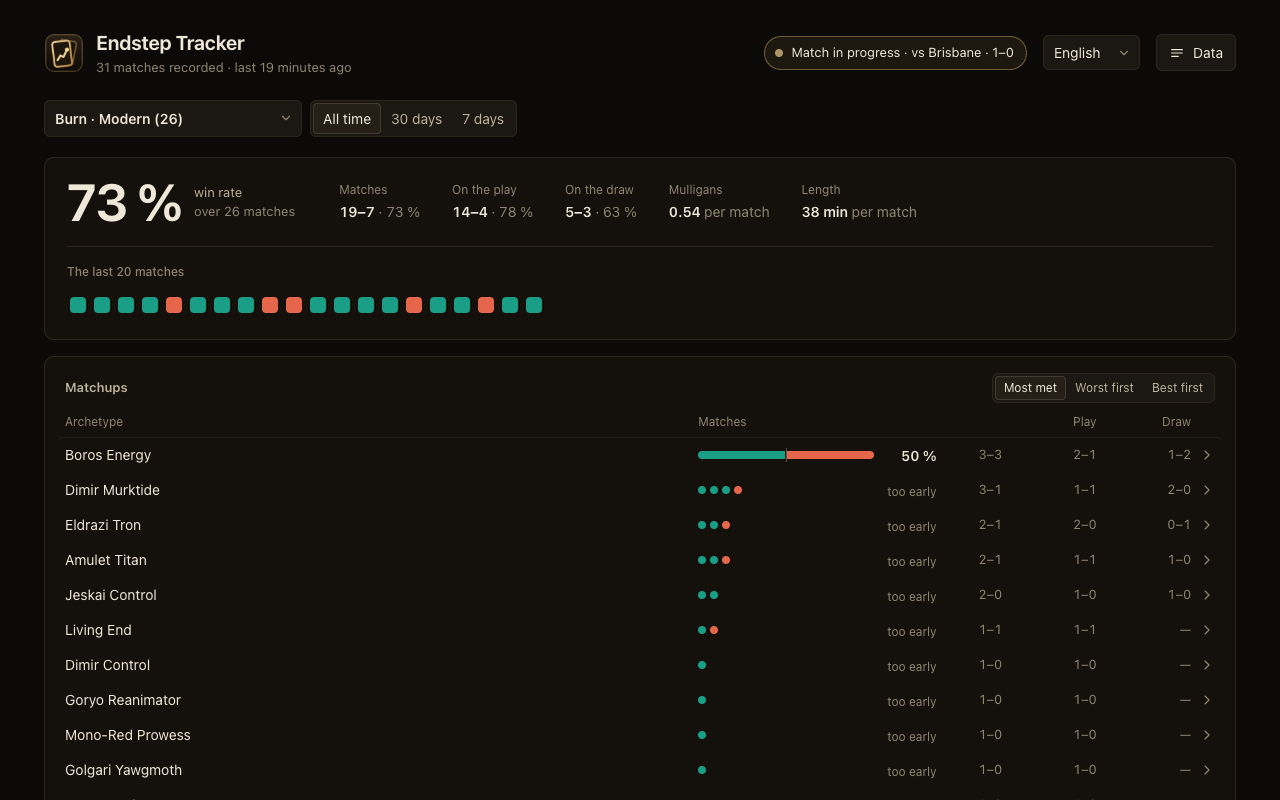
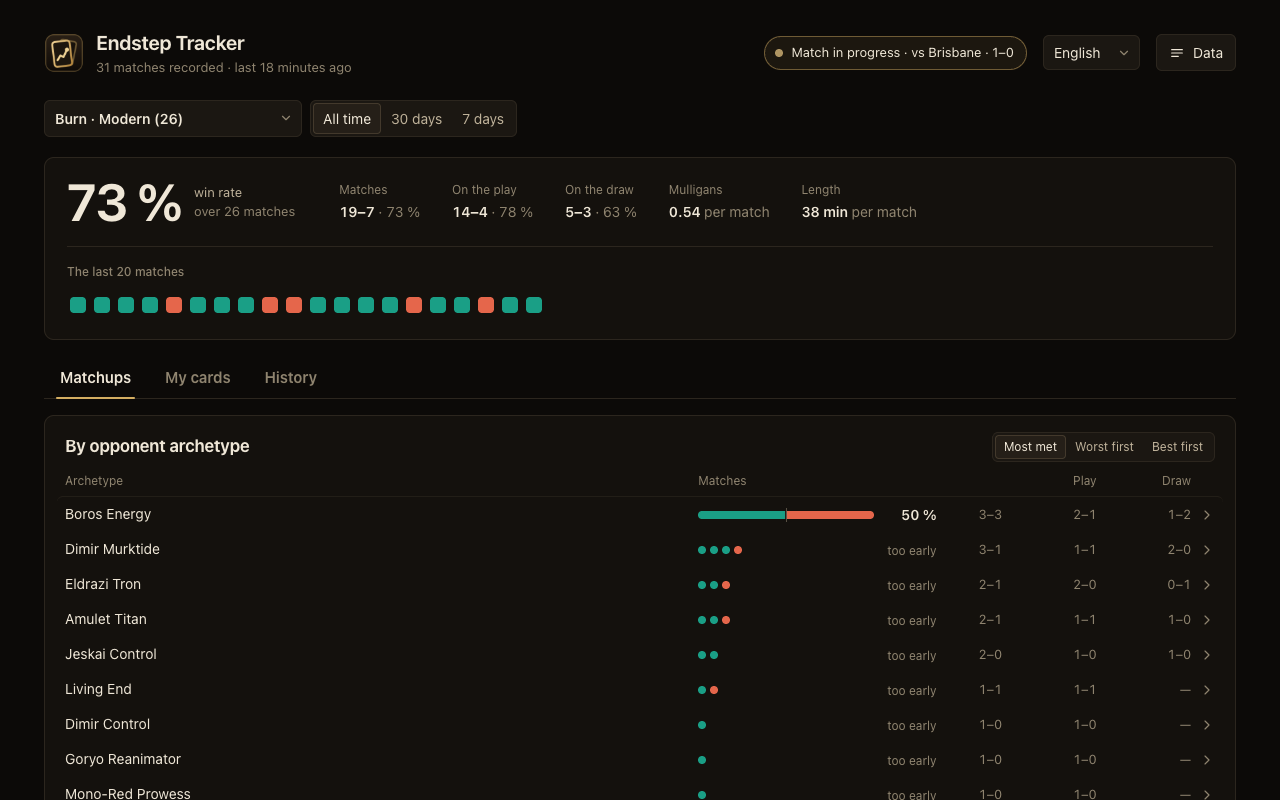
Store for 1.1: listing texts, five screenshots and the marquee with my cards and sideboarding
- Descriptions (EN, FR): My cards, the recorded sideboarding, and the usual
  sideboarding in the in-page panel. The page-world script's justification
  says it reads, of what the page sends, only the sideboarding choice.
- Screenshots from store/shots.js, which now goes through the tabs: summary
  and matchups (EN), My cards, the matchup panel with the sideboarding, a
  match with each game's sideboarding, summary and matchups (FR). The
  synthetic matches carry drawn cards, sideboarding and believable cards
  for each archetype (the replayed games were a Burn mirror).
- Marquee pills gain "Win rate card by card" and "Your sideboarding".
- Checklist: cards.test.js in the test line.

diff --git a/store/shots.js b/store/shots.js
@@ -15,6 +15,36 @@ async function enrich() {
   const lost = new Set([2, 5, 9, 13, 14, 19, 22]);
   const colors = { 'Boros Energy': 'RW', 'Dimir Murktide': 'UB', 'Amulet Titan': 'G', 'Eldrazi Tron': '', 'Living End': 'BRG', 'Jeskai Control': 'URW',
     'Ruby Storm': 'R', 'Golgari Yawgmoth': 'BG', 'Mono-Red Prowess': 'R', 'Goryo Reanimator': 'WB' };
+  // My cards and my sideboarding, for the "My cards" tab and the matchup panel: a full Burn list, the cards drawn in each
+  // game (seeded: Goblin Guide drawn a little more in wins, Lava Spike in losses), a side plan against five archetypes.
+  const MAIN = { 'Lightning Bolt': 4, 'Goblin Guide': 4, 'Monastery Swiftspear': 4, 'Lava Spike': 4, 'Rift Bolt': 4, 'Skullcrack': 4, 'Boros Charm': 4,
+    'Eidolon of the Great Revel': 4, 'Searing Blaze': 4, 'Light Up the Stage': 4, 'Sacred Foundry': 4, 'Inspiring Vantage': 4, Mountain: 12 };
+  const SIDE = { 'Boros Energy': [{ 'Kor Firewalker': 3, 'Deflecting Palm': 2 }, { 'Lava Spike': 4, 'Light Up the Stage': 1 }],
+    'Dimir Murktide': [{ 'Roiling Vortex': 2 }, { 'Searing Blaze': 2 }], 'Amulet Titan': [{ 'Path to Exile': 3 }, { Skullcrack: 3 }],
+    'Eldrazi Tron': [{ 'Path to Exile': 2 }, { 'Eidolon of the Great Revel': 2 }], 'Living End': [{ 'Rest in Peace': 2 }, { 'Searing Blaze': 2 }] };
+  // What each archetype shows (the replayed games are a Burn mirror): their cards seen, never my own plays mislabelled.
+  const SEEN = { 'Boros Energy': ['Guide of Souls', 'Ocelot Pride', 'Galvanic Discharge', 'Phlage, Titan of Fire\'s Fury', 'Arid Mesa'],
+    'Dimir Murktide': ['Counterspell', 'Murktide Regent', 'Consider', 'Fatal Push', 'Island'], 'Amulet Titan': ['Amulet of Vigor', 'Primeval Titan', 'Urza\'s Saga', 'Forest'],
+    'Eldrazi Tron': ['Thought-Knot Seer', 'Urza\'s Tower', 'Matter Reshaper', 'Kozilek\'s Command'], 'Living End': ['Living End', 'Street Wraith', 'Shardless Agent', 'Swamp'],
+    'Jeskai Control': ['Counterspell', 'Solitude', 'Prismatic Ending', 'Island'], 'Ruby Storm': ['Ruby Medallion', 'Grapeshot', 'Manamorphose', 'Mountain'],
+    'Golgari Yawgmoth': ['Yawgmoth, Thran Physician', 'Grist, the Hunger Tide', 'Forest'], 'Mono-Red Prowess': ['Soul-Scar Mage', 'Violent Urge', 'Mountain'],
+    'Goryo Reanimator': ['Goryo\'s Vengeance', 'Atraxa, Grand Unifier', 'Plains'] };
+  let seed = 7;
+  const rnd = () => (seed = (seed * 16807) % 2147483647) / 2147483647;
+  const sided = (arch) => {
+    const m = { ...MAIN };
+    const s = SIDE[arch];
+    if (s) { for (const [c, k] of Object.entries(s[1])) m[c] -= k; for (const [c, k] of Object.entries(s[0])) m[c] = (m[c] || 0) + k; }
+    return Object.fromEntries(Object.entries(m).filter(([, k]) => k > 0));
+  };
+  const drawnIn = (deck, won) => {
+    const out = {};
+    for (const [c, k] of Object.entries(deck)) {
+      const miss = c === 'Goblin Guide' && won ? 0.8 : c === 'Lava Spike' && !won ? 0.8 : 0.87; // chance of not drawing one copy
+      if (rnd() < 1 - Math.pow(miss, k)) out[c] = [c + '#' + Math.floor(rnd() * 1e6)];
+    }
+    return out;
+  };
   const game = (n, first, winner) => Object.assign(JSON.parse(JSON.stringify(base.games[(n - 1) % base.games.length])), {
     n, firstSeat: first, winnerSeat: winner, outcome: true, life: winner === 0 ? { 0: 6 + 3 * n, 1: 0 } : { 0: 0, 1: 11 - n },
     mulligans: { 0: n === 2 && winner ? 1 : 0, 1: 0 } });
@@ -27,6 +57,13 @@ async function enrich() {
     const at = Date.now() - (22 - i * 0.85) * 864e5;
     const m = Object.assign(JSON.parse(JSON.stringify(base)), { id: 's' + i, startedAt: at, updatedAt: at + 38 * 60e3, endedAt: at + 38 * 60e3,
       status: 'complete', result: won ? 'W' : 'L', winnerSeat: won ? 0 : 1, score: [games.filter((g) => g.winnerSeat === 0).length, games.filter((g) => g.winnerSeat === 1).length], games });
+    m.mains = Object.fromEntries(games.map((g) => [g.n, g.n === 1 ? MAIN : sided(archs[i])]));
+    for (const g of games) {
+      g.drawn = drawnIn(m.mains[g.n], g.winnerSeat === 0);
+      g.openingHand = Object.keys(g.drawn).slice(0, 6);
+      g.seen = { 1: Object.fromEntries(SEEN[archs[i]].filter(() => rnd() < 0.75).map((c) => [c, [c + '#1']])) };
+      g.log = g.log.filter(([, seat]) => seat === 0); // the replay's opponent played Burn too
+    }
     m.players = [{ seat: 0, name: 'guest_rZ8gWdWE' }, { seat: 1, name: opp }];
     m.colors = { 1: colors[archs[i]] };
     m.participants = m.players.map((pl) => ({ userId: 'u' + pl.seat, username: pl.name, isBot: false }));
@@ -62,12 +99,29 @@ async function enrich() {
   const BURN = { scope: { format: 'Modern', deck: 'Burn' } }; // the deck the synthetic matches are played with
   let p = await open('en', BURN);
   await shot(p, '1-dashboard-en.png');
+  // My cards, below the summary.
+  await p.click('#tab-cards');
+  await sleep(400);
+  await p.evaluate(() => document.getElementById('tabs').scrollIntoView({ block: 'start' }));
+  await sleep(300);
+  await shot(p, '2-my-cards-en.png');
+  // The matchup panel: records and my usual sideboarding against Boros Energy.
+  await p.evaluate(() => scrollTo(0, 0));
+  await p.click('#tab-matchups');
+  await sleep(300);
+  await p.click('#by-opp button.rec[data-key="a:Boros Energy"]');
+  await sleep(500);
+  await shot(p, '3-matchup-side-en.png');
+  // A match in the history: opponent cards seen, recognized archetype, notes, each game with its sideboarding.
+  await p.keyboard.press('Escape');
+  await p.click('#tab-history');
+  await sleep(300);
   await p.click('.match[data-id="s21"] .match-row');
   await sleep(400);
   await p.evaluate(() => document.querySelector('.match[data-id="s21"]').scrollIntoView({ block: 'start' }));
   await sleep(300);
-  await shot(p, '2-match-detail.png');
+  await shot(p, '4-match-detail-en.png');
   p = await open('fr', BURN);
-  await shot(p, '3-dashboard-fr.png');
+  await shot(p, '5-dashboard-fr.png');
   await b.close();
 })();

diff --git a/store/promo.js b/store/promo.js
@@ -28,7 +28,7 @@ const css = `
 `;
 const pages = {
   'promo-440x280.png': { w: 440, h: 280, html: `<div class="bg"></div><div class="tile"><img src="${icon}"><h1>Endstep Tracker</h1><p>Your endstep.cc matches, recorded automatically.</p></div>` },
-  'marquee-1400x560.png': { w: 1400, h: 560, html: `<div class="bg"></div><div class="marquee"><div class="copy"><img src="${icon}"><h1>Endstep Tracker</h1><p>Every match you play on endstep.cc, recorded automatically and kept on your computer.</p><div class="pills"><span>Play / draw &amp; mulligans</span><span>Opponent cards seen</span><span>Archetype recognition</span><span>Win rates by deck</span></div></div><div class="screen"><img src="${shot}"></div></div>` },
+  'marquee-1400x560.png': { w: 1400, h: 560, html: `<div class="bg"></div><div class="marquee"><div class="copy"><img src="${icon}"><h1>Endstep Tracker</h1><p>Every match you play on endstep.cc, recorded automatically and kept on your computer.</p><div class="pills"><span>Play / draw &amp; mulligans</span><span>Opponent cards seen</span><span>Archetype recognition</span><span>Win rate card by card</span><span>Your sideboarding</span></div></div><div class="screen"><img src="${shot}"></div></div>` },
   'icon-128.png': { w: 128, h: 128, html: `<div class="icon"><img src="${icon}"></div>`, transparent: true },
 };
 (async () => {

diff --git a/store/STORE.md b/store/STORE.md
@@ -15,12 +15,14 @@ Everything to paste into the developer dashboards. The store builds have no Coac
 
 Endstep Tracker automatically records the Magic: The Gathering matches you play on endstep.cc and turns them into a personal match history, all stored locally in your browser.
 
-While you play, the extension icon shows a REC badge, and a small panel on the game page shows, between two games, the opponent's archetype and your record against it. The toolbar popup shows the same during a match, and your session otherwise.
+While you play, the extension icon shows a REC badge, and a small panel on the game page shows, between two games, the opponent's archetype, your record against it and your usual sideboarding. The toolbar popup shows the same during a match, and your session otherwise.
 
 The dashboard opens on the deck you play most:
 
 • At a glance: your win rate, your records on the play and on the draw, and your latest results.
 • Matchups: record in matches, on the play and on the draw.
+• My cards: for each card of your deck, the win rate of the games where you drew it, next to the games where it stayed in your library and the games where it was in your opening hand.
+• Your sideboarding: what you bring in and take out between games is recorded, shown for each matchup and recalled between two games against the same kind of deck.
 • List versions: when your main deck changes, compare the new list with the previous one, matchup by matchup.
 • Match history: date, format, opponent, your deck, score, result.
 • Per game: play/draw, mulligans, your opening hand, turns, final life totals, duration, and the full game log.
@@ -37,12 +39,14 @@ Not affiliated with endstep.cc or Wizards of the Coast.
 
 Endstep Tracker enregistre automatiquement les parties de Magic: The Gathering que tu joues sur endstep.cc et en fait un historique personnel, stocké uniquement dans ton navigateur.
 
-Pendant une partie, l'icône affiche un badge REC, et un petit panneau sur la page de jeu montre, entre deux games, l'archétype adverse et ton bilan contre lui. La popup de l'icône montre la même chose pendant un match, et ta session sinon.
+Pendant une partie, l'icône affiche un badge REC, et un petit panneau sur la page de jeu montre, entre deux games, l'archétype adverse, ton bilan contre lui et ton side habituel. La popup de l'icône montre la même chose pendant un match, et ta session sinon.
 
 Le tableau de bord s'ouvre sur le deck que tu joues le plus :
 
 • En un coup d'œil : ton taux de victoire, tes bilans sur le play et sur la draw, et tes derniers résultats.
 • Matchups : bilan en matchs, sur le play et sur la draw.
+• Mes cartes : pour chaque carte de ton deck, le taux de victoire des games où tu l'as piochée, à côté des games où elle est restée dans ta bibliothèque et de celles où elle était dans ta main de départ.
+• Ton side : ce que tu fais entrer et sortir entre les games est enregistré, montré pour chaque matchup et rappelé entre deux games contre le même type de deck.
 • Versions de liste : quand ton main deck change, compare la nouvelle liste à la précédente, matchup par matchup.
 • Historique des matchs : date, format, adversaire, ton deck, score, résultat.
 • Par game : play/draw, mulligans, ta main de départ, tours, PV finaux, durée et journal complet.
@@ -64,7 +68,7 @@ Non affilié à endstep.cc ni à Wizards of the Coast.
 - `storage` / `unlimitedStorage`: the match history (including full game logs) is stored locally in `chrome.storage.local`; a heavy user exceeds the default 10 MB quota.
 - `scripting`: after the extension is installed or updated, the background worker re-injects the tracker into endstep.cc tabs that are already open, so a match in progress is not lost.
 - Host permission `https://endstep.cc/*`: the only site the extension works on. The content script observes the game messages the site already exchanges with the browser (WebSocket) to build the match record, and shows a small panel with the user's own records and notes (in a closed shadow root, never focused, never acting on the game). Nothing is sent.
-- Content script in the page world (`world: MAIN`): the game state is only available by observing the site's own WebSocket, which is not accessible from the isolated world. The script is read-only.
+- Content script in the page world (`world: MAIN`): the game state is only available by observing the site's own WebSocket, which is not accessible from the isolated world. The script is read-only: it reads the frames the site receives, and of the frames it sends only the user's own sideboarding choice between two games (the main deck submitted for the next game). It never sends or alters anything.
 
 **Remote code**: No. All code is in the package.
 
@@ -76,11 +80,13 @@ Non affilié à endstep.cc ni à Wizards of the Coast.
 
 ## Assets
 
-Screenshots in this folder, 1280×800 PNG without alpha, made by `store/shots.js` from the QA demo data plus 24 synthetic Modern matches (made-up opponents, no real player):
+Screenshots in this folder, 1280×800 PNG without alpha, made by `store/shots.js` from the QA demo data plus 24 synthetic Modern matches (made-up opponents, no real player; each with the cards drawn per game and a sideboarding against five archetypes):
 
-1. `1-dashboard-en.png` — dashboard overview, English
-2. `2-match-detail.png` — expanded match: opponent cards seen, recognized archetype, notes, per-game detail
-3. `3-dashboard-fr.png` — dashboard overview, French
+1. `1-dashboard-en.png`: summary and matchups, English
+2. `2-my-cards-en.png`: the "My cards" tab, card by card
+3. `3-matchup-side-en.png`: the matchup panel with my usual sideboarding and their cards seen
+4. `4-match-detail-en.png`: expanded match: opponent cards seen, archetype, notes, each game with its sideboarding
+5. `5-dashboard-fr.png`: summary and matchups, French
 
 Regenerate after a UI change: `node test/harness/gen-demo.js && node store/shots.js`.
 
@@ -152,7 +158,7 @@ What each store gets: Chrome, through API v2 (v1.1 stops on 2026-10-15), the zip
 
 ## Submission checklist
 
-1. `node test/replay.test.js && node test/meta.test.js && node test/hook.test.js && node test/commander.test.js && node test/ai.test.js && node test/records.test.js && node test/format.test.js`
+1. `node test/replay.test.js && node test/meta.test.js && node test/hook.test.js && node test/commander.test.js && node test/ai.test.js && node test/records.test.js && node test/format.test.js && node test/cards.test.js`
 2. `version` in `manifest.json` → `X.Y`; in `CHANGELOG.md`, "Non publié" becomes `[X.Y] (date)`; rewrite `promo_news` in both `_locales` (the Deck Compare news shown when the closed banner comes back with this release). Commit `Release X.Y`, lightweight tag `vX.Y`, then push `main` and the tag (`git push origin vX.Y`: a lightweight tag does not travel with `--follow-tags`).
 3. `./publish.sh --dry-run` then `./publish.sh` (see Automated publishing), or by hand: `./release.sh` → upload `dist/endstep-tracker-<version>.zip` (Chrome, Edge); `./release.sh firefox` → `dist/endstep-tracker-<version>-firefox.zip` (AMO); `./release.sh safari`, then archive the Xcode project (Mac App Store).
 4. Fill the listing, privacy tab, test instructions and assets from this file; set visibility (public or unlisted), then submit. Review usually takes 1 to 3 days; a `world: MAIN` content script and a host permission may trigger a question from the reviewer, the justifications above answer it.
